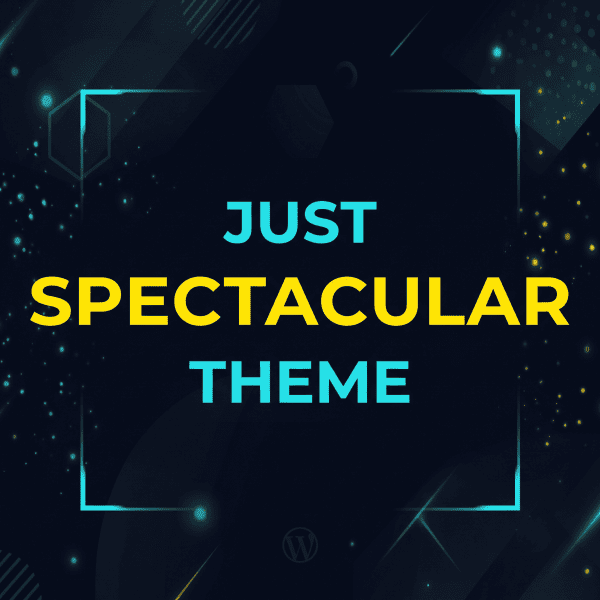
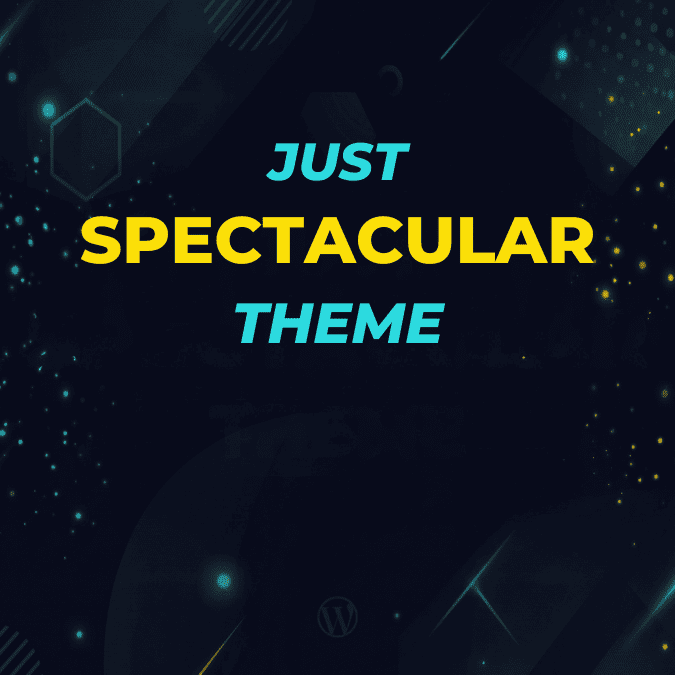
v1.6.2 — Hide Global Footer toggle, rename Header Scripts, update screenshot
- Page Settings: add Hide Global Footer checkbox (suppresses Footer HTML + Footer Scripts)
- Theme Options: rename Header Scripts to Header Scripts & Custom CSS
- Update screenshot.png

diff --git a/style.css b/style.css
@@ -2,7 +2,7 @@
 Theme Name: Just Spectacular Theme
 Author: EarthbreakDesigns
 Description: A palette-agnostic base theme. Sitewide colors and markup are injected via Theme Options (Header Scripts, Navigation, Footer) so this shell can be reused across client sites.
-Version: 1.6.0
+Version: 1.6.2
 Text Domain: just-spectacular-theme
 */
 

diff --git a/functions.php b/functions.php
@@ -7,7 +7,7 @@ if ( ! defined( 'ABSPATH' ) ) {
 	exit;
 }
 
-define( 'JST_VERSION', '1.6.0' );
+define( 'JST_VERSION', '1.6.2' );
 
 
 /**
@@ -125,8 +125,8 @@ function jst_theme_options_fields() {
 			'description' => __( 'Outputs after the page content, before Footer Scripts — use for your global footer design and navigation markup.', 'just-spectacular-theme' ),
 		),
 		'jst_header_scripts' => array(
-			'label'       => __( 'Header Scripts', 'just-spectacular-theme' ),
-			'description' => __( 'Outputs inside <head> — use for external CSS links, fonts, and other head-level scripts.', 'just-spectacular-theme' ),
+			'label'       => __( 'Header Scripts & Custom CSS', 'just-spectacular-theme' ),
+			'description' => __( 'Outputs inside <head> — use for external CSS links, fonts, custom <style> blocks, and other head-level scripts.', 'just-spectacular-theme' ),
 		),
 		'jst_footer_scripts' => array(
 			'label'       => __( 'Footer Scripts', 'just-spectacular-theme' ),
@@ -254,6 +254,9 @@ add_action( 'wp_body_open', 'jst_output_navigation', 20 );
  * Output Footer HTML markup right before </body>, before footer scripts.
  */
 function jst_output_footer() {
+	if ( is_singular() && get_post_meta( get_the_ID(), '_jst_hide_global_footer', true ) ) {
+		return;
+	}
 	echo get_option( 'jst_footer', '' ); // phpcs:ignore -- intentional raw output, admin-trusted.
 }
 add_action( 'jst_before_closing_body', 'jst_output_footer', 10 );
@@ -262,6 +265,9 @@ add_action( 'jst_before_closing_body', 'jst_output_footer', 10 );
  * Output Footer Scripts right before </body>, after Footer HTML.
  */
 function jst_output_footer_scripts() {
+	if ( is_singular() && get_post_meta( get_the_ID(), '_jst_hide_global_footer', true ) ) {
+		return;
+	}
 	echo get_option( 'jst_footer_scripts', '' ); // phpcs:ignore -- intentional raw output, admin-trusted.
 }
 add_action( 'jst_before_closing_body', 'jst_output_footer_scripts', 20 );
@@ -301,7 +307,8 @@ function jst_render_page_settings_meta_box( $post ) {
 	$disable_style   = get_post_meta( $post->ID, '_jst_disable_theme_style', true );
 	$hide_post_meta   = get_post_meta( $post->ID, '_jst_hide_post_meta', true );
 	$prose_invert     = get_post_meta( $post->ID, '_jst_prose_invert', true );
-	$hide_global_nav  = get_post_meta( $post->ID, '_jst_hide_global_nav', true );
+	$hide_global_nav    = get_post_meta( $post->ID, '_jst_hide_global_nav', true );
+	$hide_global_footer = get_post_meta( $post->ID, '_jst_hide_global_footer', true );
 	?>
 	<p>
 		<label for="jst_page_width"><strong><?php esc_html_e( 'Width', 'just-spectacular-theme' ); ?></strong></label><br>
@@ -367,6 +374,16 @@ function jst_render_page_settings_meta_box( $post ) {
 	</p>
 	<p>
 		<label>
+			<input type="checkbox" name="jst_hide_global_footer" value="1" <?php checked( $hide_global_footer, '1' ); ?> />
+			<?php esc_html_e( 'Hide global footer on this page', 'just-spectacular-theme' ); ?>
+		</label>
+		<br>
+		<span class="description">
+			<?php esc_html_e( 'Suppresses the global Footer HTML and Footer Scripts (Theme Options) on this page. Use with a Template Part set to "Before </body>" to show a custom footer instead.', 'just-spectacular-theme' ); ?>
+		</span>
+	</p>
+	<p>
+		<label>
 			<input type="checkbox" name="jst_disable_theme_style" value="1" <?php checked( $disable_style, '1' ); ?> />
 			<?php esc_html_e( 'Disable theme style.css on this page', 'just-spectacular-theme' ); ?>
 		</label>
@@ -408,6 +425,7 @@ function jst_save_page_settings_meta_box( $post_id ) {
 	update_post_meta( $post_id, '_jst_prose_invert', isset( $_POST['jst_prose_invert'] ) ? '1' : '' );
 	update_post_meta( $post_id, '_jst_hide_post_meta', isset( $_POST['jst_hide_post_meta'] ) ? '1' : '' );
 	update_post_meta( $post_id, '_jst_hide_global_nav', isset( $_POST['jst_hide_global_nav'] ) ? '1' : '' );
+	update_post_meta( $post_id, '_jst_hide_global_footer', isset( $_POST['jst_hide_global_footer'] ) ? '1' : '' );
 	update_post_meta( $post_id, '_jst_disable_theme_style', isset( $_POST['jst_disable_theme_style'] ) ? '1' : '' );
 }
 add_action( 'save_post', 'jst_save_page_settings_meta_box' );